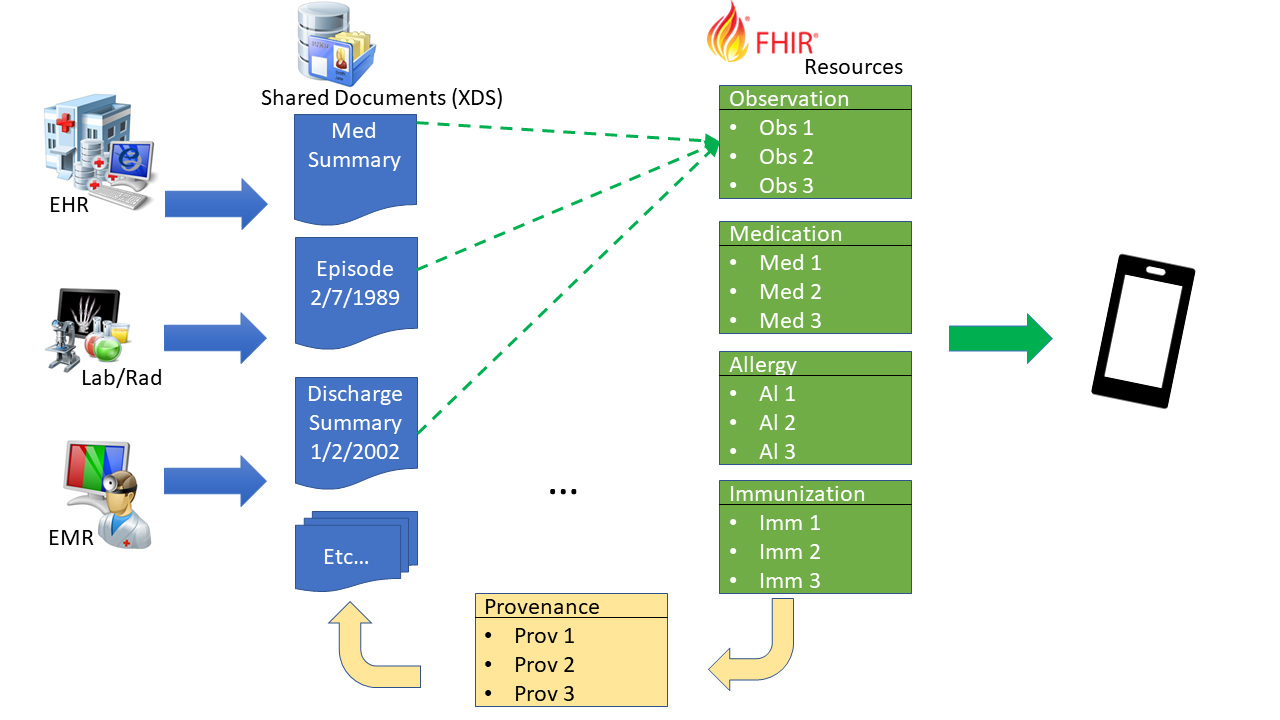
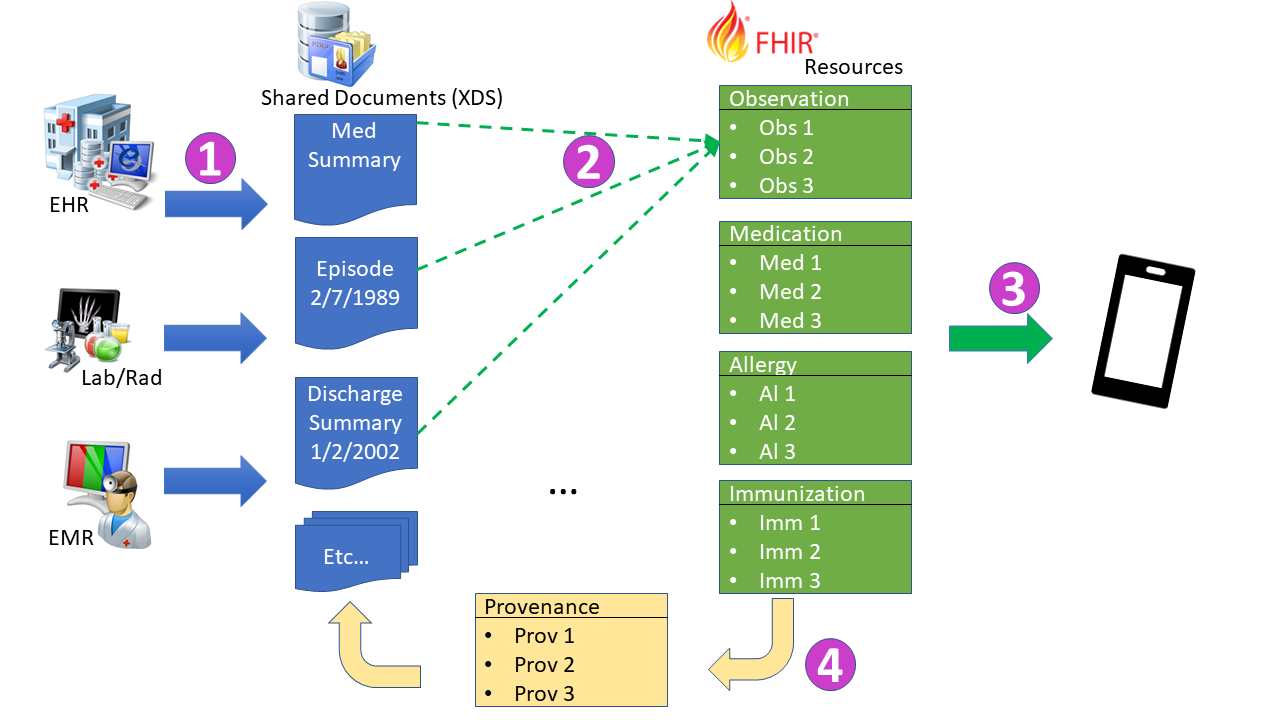
updated mXDE diagram as discussed. Closes #43

diff --git a/README.md b/README.md
@@ -1044,15 +1044,9 @@ This profile defines rules to ensure consistency and traceability of information
 
 The flows of information are depicted in the Figure 3.5-1:
 
-![](images/MXDE_Picture.jpg)
-
-**Figure 3.5-1: mXDE Flow from Documents to Resources**
-
-Alternate Picture
-
 ![](images/mXDE.png)
 
-TODO: Decide which picture
+**Figure 3.5-1: mXDE Flow from Documents to Resources**
 
 1. Specific data elements are extracted from the structured documents per [mXDE](http://profiles.ihe.net/ITI/TF/Volume1/ch-45.html) Profile.
 2. Data elements (e.g. allergies) queried using the FHIR based Query for Existing Data for Mobile ([QEDm](https://wiki.ihe.net/index.php/Query_for_Existing_Data_for_Mobile)) Profile (Query_for_Existing_Data_for_Mobile).
